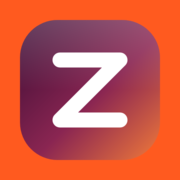
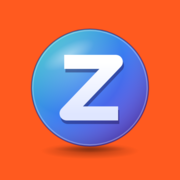
Website: the whole taskbar in the screenshots; Welcome to Zurbax
The monitor's 16:9 now applies inside its bezel, whose bottom is
thicker than its top, so the screenshots' taskbars aren't cut off. The
tour's heading fits beside the monitor. The headline reads Welcome to
Zurbax, the tab keeps the name Zurbax 2.0 and shows the blue Z.

Claude-Session: https://claude.ai/code/session_0191TWPGBXVuoaNNnLBj1uWH

diff --git a/website/index.html b/website/index.html
@@ -3,17 +3,17 @@
 <head>
 <meta charset="utf-8">
 <meta name="viewport" content="width=device-width, initial-scale=1">
-<title>Welcome to Zurbax</title>
+<title>Zurbax 2.0</title>
 <meta name="description" content="Zurbax is a desktop operating system written from the first line. Steam and Proton, thousands of apps from Flathub, and drivers for every graphics card, on one install image.">
-<meta property="og:title" content="Welcome to Zurbax">
+<meta property="og:title" content="Zurbax 2.0">
 <meta property="og:description" content="A desktop operating system written from the first line. Steam, Flathub and every graphics card, on one install image.">
 <meta property="og:image" content="https://zurbax.com/images/desktop.jpg?v=3">
 <meta property="og:url" content="https://zurbax.com/">
 <meta name="theme-color" content="#ff5a1f">
-<link rel="icon" href="/favicon.ico?v=2" sizes="48x48">
-<link rel="icon" href="/images/favicon-32.png?v=2" type="image/png" sizes="32x32">
-<link rel="icon" href="/images/logo.svg" type="image/svg+xml">
-<link rel="apple-touch-icon" href="/apple-touch-icon.png?v=2">
+<link rel="icon" href="/favicon.ico?v=3" sizes="48x48">
+<link rel="icon" href="/images/favicon-32.png?v=3" type="image/png" sizes="32x32">
+<link rel="icon" href="/images/tab-icon.svg?v=3" type="image/svg+xml">
+<link rel="apple-touch-icon" href="/apple-touch-icon.png?v=3">
 <link rel="preconnect" href="https://fonts.googleapis.com">
 <link rel="preconnect" href="https://fonts.gstatic.com" crossorigin>
 <link href="https://fonts.googleapis.com/css2?family=Archivo:wdth,wght@62..125,400..900&family=IBM+Plex+Mono:wght@400;500&display=swap" rel="stylesheet">
@@ -37,7 +37,7 @@
 <section class="hero">
   <div class="hero-copy">
     <p class="version">Zurbax 2.0</p>
-    <h1><span class="line">Plays everything.</span> <span class="line">Asks for nothing.</span></h1>
+    <h1><span class="line">Welcome to</span> <span class="line">Zurbax.</span></h1>
     <p class="intro">A desktop operating system written from the first line, with Steam, thousands of apps and the drivers for every graphics card already on it. Start it from a USB stick and it's ready.</p>
     <div class="cta">
       <a class="btn" href="#download" data-get>Download <span class="arrow" aria-hidden="true">→</span></a>

diff --git a/website/style.css b/website/style.css
@@ -280,3 +280,10 @@ footer { background: var(--plum); color: #e2c9d6; border-top: 0; }
 @media (max-width: 960px) {
   .install { padding-top: 96px; padding-bottom: 96px; }
 }
+
+/* the screen's 16:9 is the picture's, inside the bezel, so the taskbar at
+ * the bottom of each screenshot isn't cut off */
+.screen { box-sizing: content-box; }
+.stop::after { box-sizing: content-box; }
+/* the tour's heading fits its column beside the monitor */
+.tour-copy .section-title { font-size: clamp(44px, 5.4vw, 88px); }
